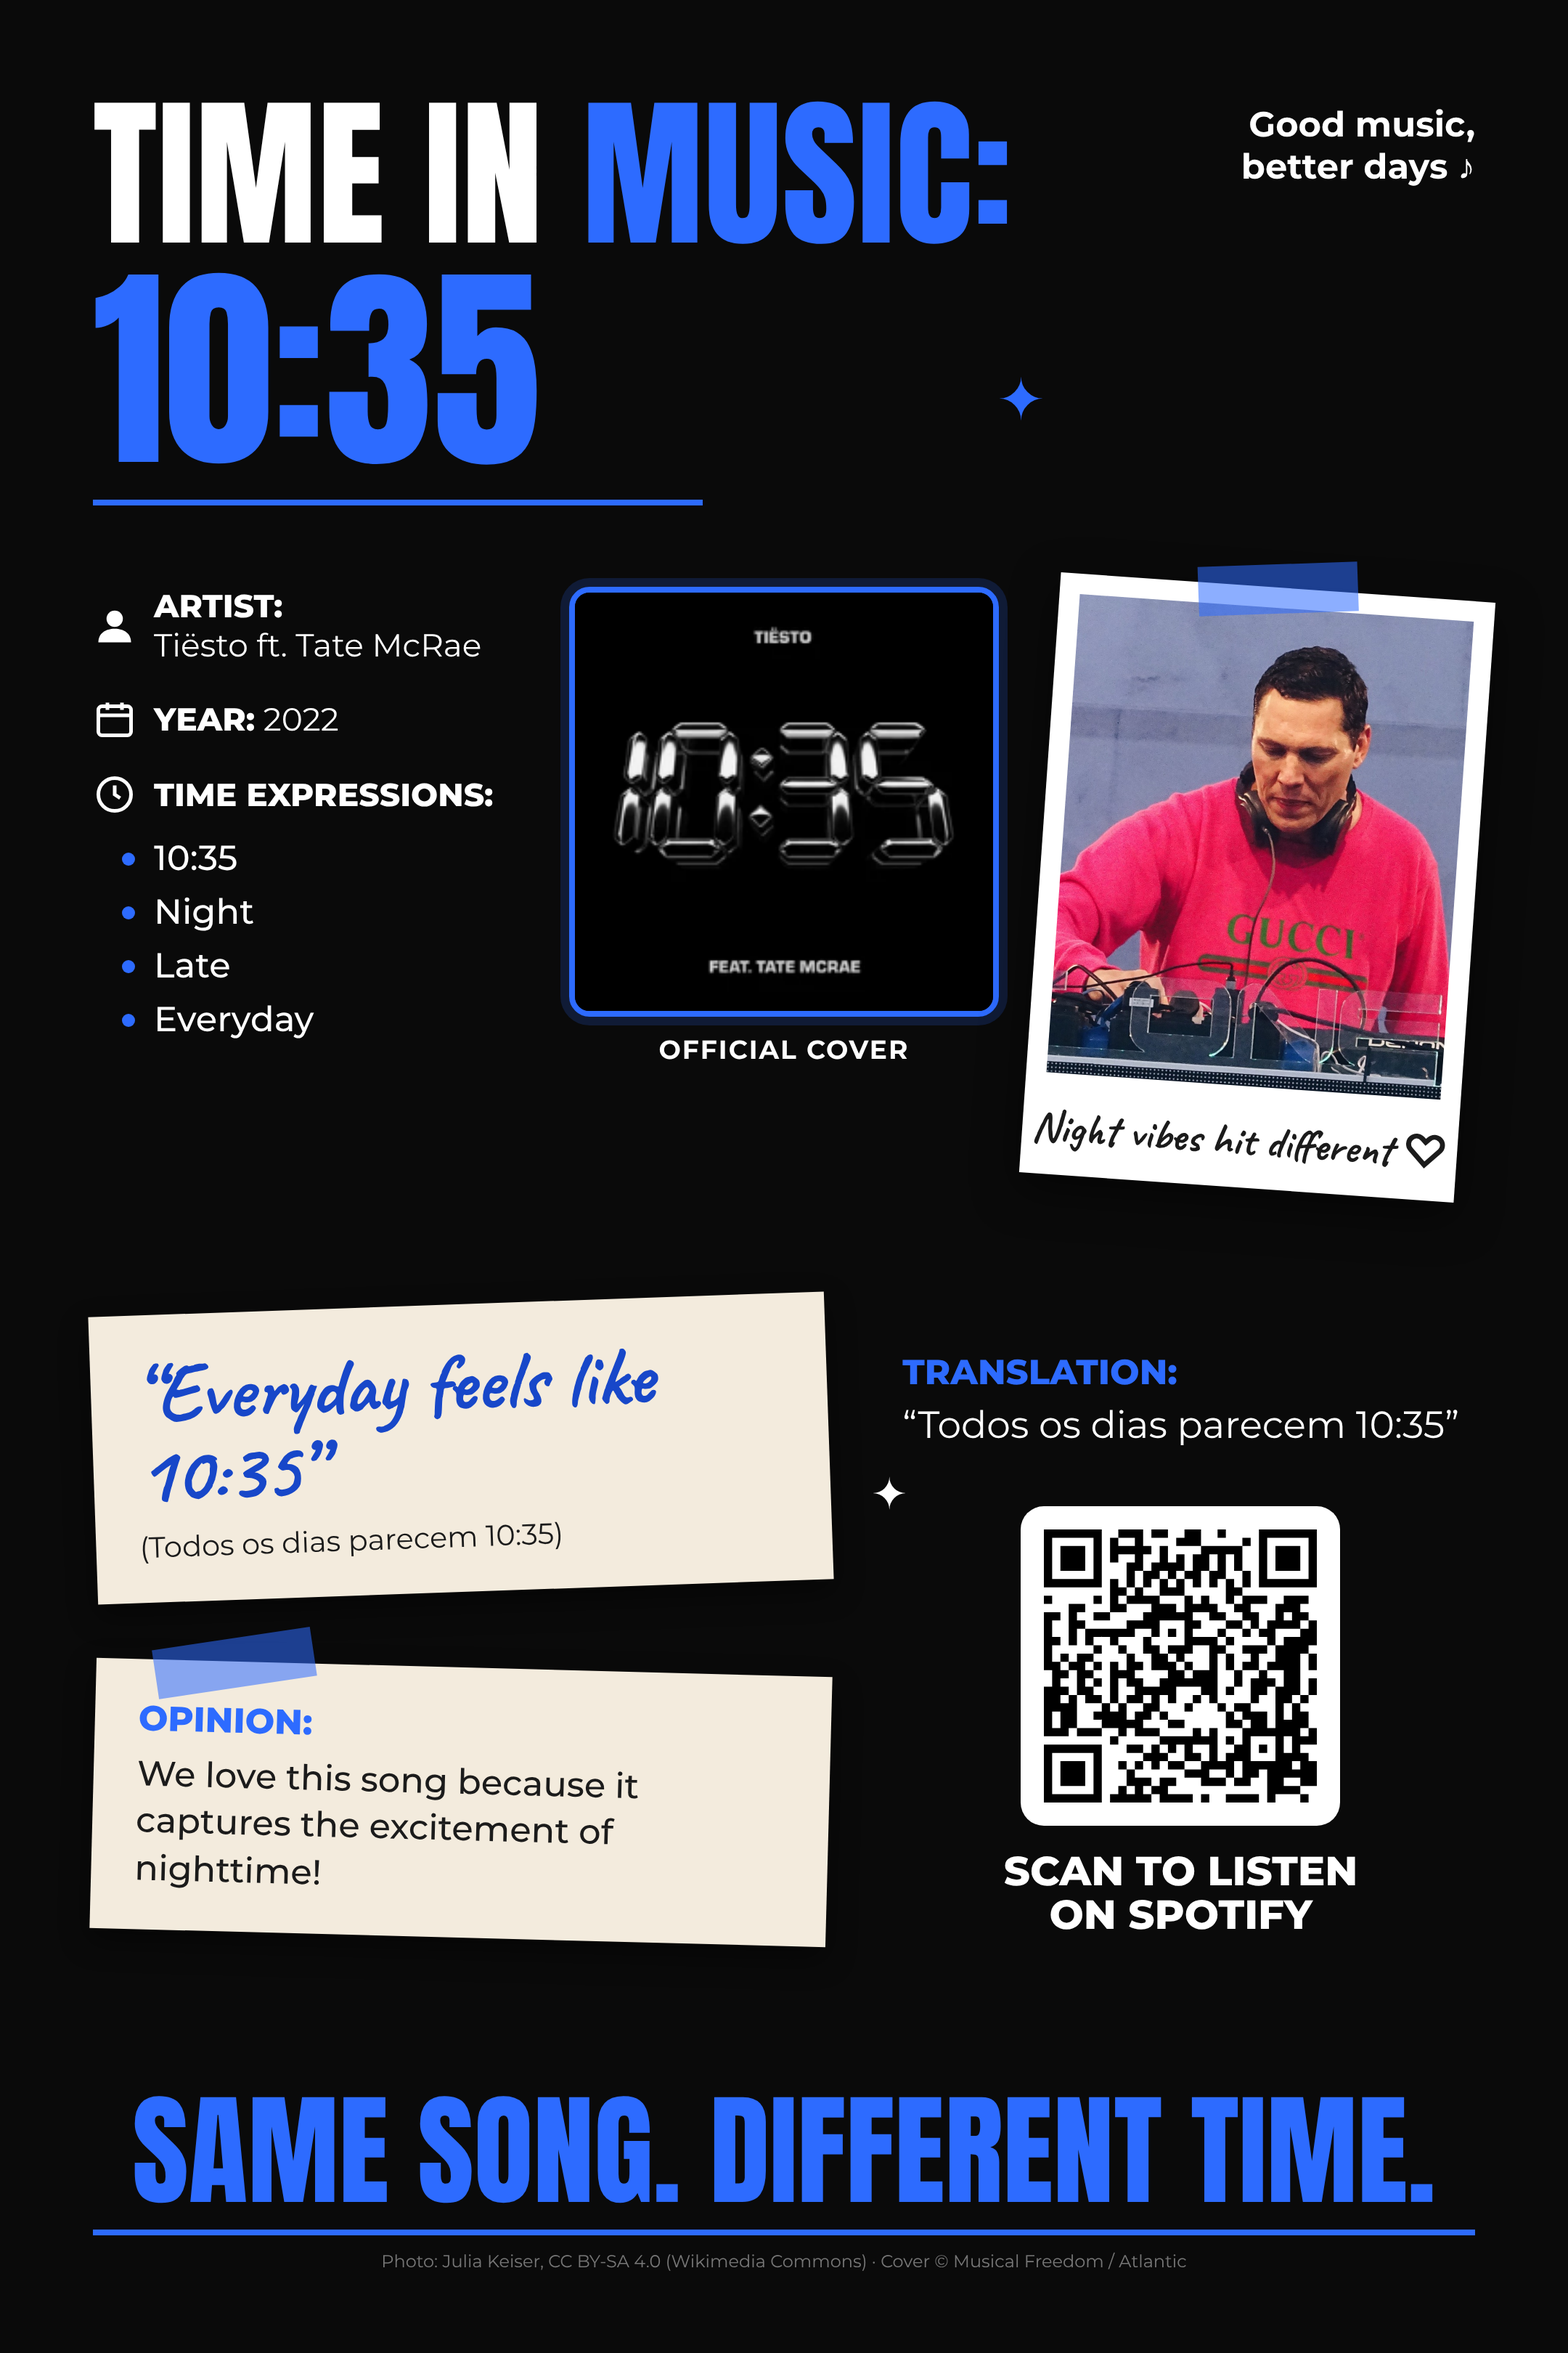
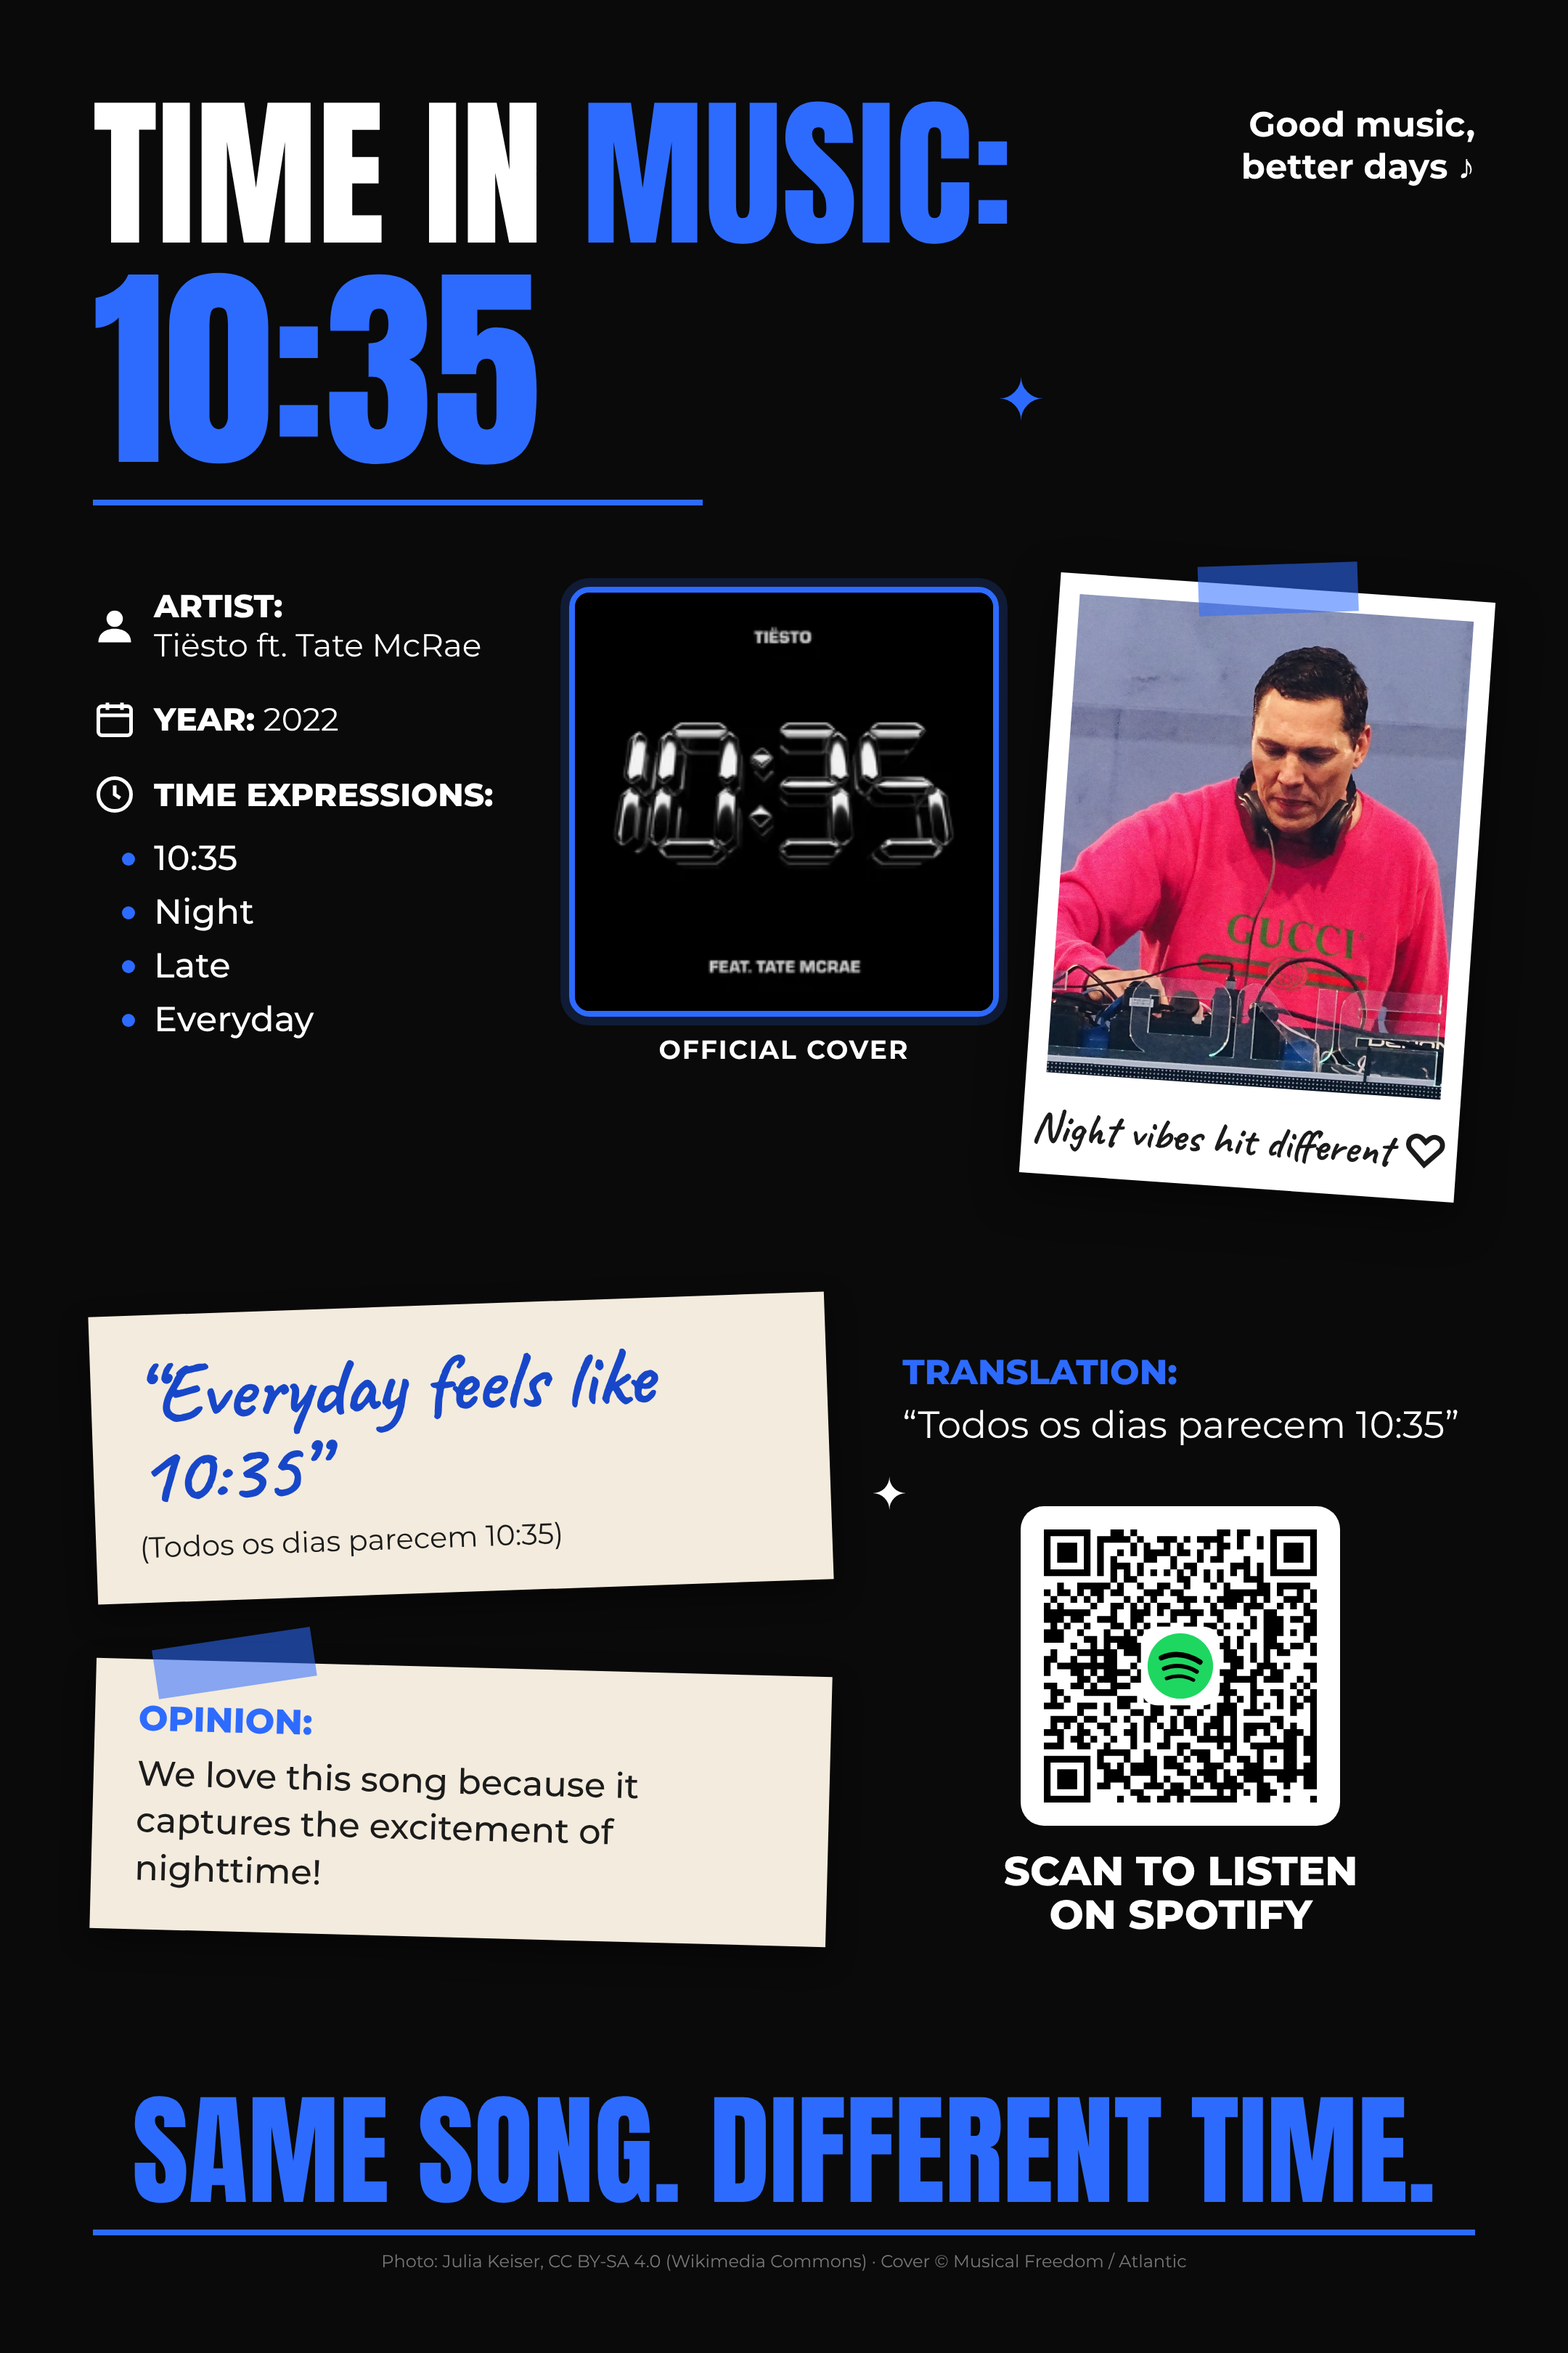
Spotify-branded QR code on Canva-style poster
Claude-Session: https://claude.ai/code/session_01N5V79tCM4EaiqWw1qUjwJE

Changed region(s): [[0.6514, 0.6546, 0.8375, 0.7793]]

diff --git a/poster-1035/canva.html b/poster-1035/canva.html
@@ -110,7 +110,7 @@
         <h3>Translation:</h3>
         <p>“Todos os dias parecem 10:35”</p>
       </div>
-      <div class="qr"><svg version="1.1" viewBox="0 0 33 33" xmlns="http://www.w3.org/2000/svg"><path fill="#000" d="M0,0H1V1H0zM1,0H2V1H1zM2,0H3V1H2zM3,0H4V1H3zM4,0H5V1H4zM5,0H6V1H5zM6,0H7V1H6zM9,0H10V1H9zM10,0H11V1H10zM11,0H12V1H11zM13,0H14V1H13zM14,0H15V1H14zM17,0H18V1H17zM18,0H19V1H18zM21,0H22V1H21zM26,0H27V1H26zM27,0H28V1H27zM28,0H29V1H28zM29,0H30V1H29zM30,0H31V1H30zM31,0H32V1H31zM32,0H33V1H32zM0,1H1V2H0zM6,1H7V2H6zM8,1H9V2H8zM11,1H12V2H11zM16,1H17V2H16zM17,1H18V2H17zM18,1H19V2H18zM24,1H25V2H24zM26,1H27V2H26zM32,1H33V2H32zM0,2H1V3H0zM2,2H3V3H2zM3,2H4V3H3zM4,2H5V3H4zM6,2H7V3H6zM8,2H9V3H8zM9,2H10V3H9zM10,2H11V3H10zM11,2H12V3H11zM12,2H13V3H12zM14,2H15V3H14zM19,2H20V3H19zM20,2H21V3H20zM21,2H22V3H21zM22,2H23V3H22zM23,2H24V3H23zM26,2H27V3H26zM28,2H29V3H28zM29,2H30V3H29zM30,2H31V3H30zM32,2H33V3H32zM0,3H1V4H0zM2,3H3V4H2zM3,3H4V4H3zM4,3H5V4H4zM6,3H7V4H6zM8,3H9V4H8zM11,3H12V4H11zM14,3H15V4H14zM16,3H17V4H16zM18,3H19V4H18zM19,3H20V4H19zM21,3H22V4H21zM23,3H24V4H23zM26,3H27V4H26zM28,3H29V4H28zM29,3H30V4H29zM30,3H31V4H30zM32,3H33V4H32zM0,4H1V5H0zM2,4H3V5H2zM3,4H4V5H3zM4,4H5V5H4zM6,4H7V5H6zM10,4H11V5H10zM11,4H12V5H11zM13,4H14V5H13zM14,4H15V5H14zM15,4H16V5H15zM16,4H17V5H16zM18,4H19V5H18zM19,4H20V5H19zM21,4H22V5H21zM23,4H24V5H23zM26,4H27V5H26zM28,4H29V5H28zM29,4H30V5H29zM30,4H31V5H30zM32,4H33V5H32zM0,5H1V6H0zM6,5H7V6H6zM10,5H11V6H10zM12,5H13V6H12zM13,5H14V6H13zM15,5H16V6H15zM17,5H18V6H17zM18,5H19V6H18zM20,5H21V6H20zM21,5H22V6H21zM24,5H25V6H24zM26,5H27V6H26zM32,5H33V6H32zM0,6H1V7H0zM1,6H2V7H1zM2,6H3V7H2zM3,6H4V7H3zM4,6H5V7H4zM5,6H6V7H5zM6,6H7V7H6zM8,6H9V7H8zM10,6H11V7H10zM12,6H13V7H12zM14,6H15V7H14zM16,6H17V7H16zM18,6H19V7H18zM20,6H21V7H20zM22,6H23V7H22zM24,6H25V7H24zM26,6H27V7H26zM27,6H28V7H27zM28,6H29V7H28zM29,6H30V7H29zM30,6H31V7H30zM31,6H32V7H31zM32,6H33V7H32zM8,7H9V8H8zM9,7H10V8H9zM11,7H12V8H11zM14,7H15V8H14zM15,7H16V8H15zM16,7H17V8H16zM22,7H23V8H22zM23,7H24V8H23zM0,8H1V9H0zM6,8H7V9H6zM8,8H9V9H8zM10,8H11V9H10zM11,8H12V9H11zM12,8H13V9H12zM13,8H14V9H13zM17,8H18V9H17zM19,8H20V9H19zM22,8H23V9H22zM24,8H25V9H24zM25,8H26V9H25zM26,8H27V9H26zM29,8H30V9H29zM30,8H31V9H30zM31,8H32V9H31zM3,9H4V10H3zM4,9H5V10H4zM8,9H9V10H8zM9,9H10V10H9zM13,9H14V10H13zM14,9H15V10H14zM15,9H16V10H15zM17,9H18V10H17zM18,9H19V10H18zM19,9H20V10H19zM20,9H21V10H20zM23,9H24V10H23zM24,9H25V10H24zM28,9H29V10H28zM29,9H30V10H29zM30,9H31V10H30zM0,10H1V11H0zM1,10H2V11H1zM3,10H4V11H3zM6,10H7V11H6zM7,10H8V11H7zM12,10H13V11H12zM13,10H14V11H13zM14,10H15V11H14zM15,10H16V11H15zM16,10H17V11H16zM17,10H18V11H17zM20,10H21V11H20zM21,10H22V11H21zM24,10H25V11H24zM25,10H26V11H25zM28,10H29V11H28zM30,10H31V11H30zM31,10H32V11H31zM0,11H1V12H0zM3,11H4V12H3zM4,11H5V12H4zM10,11H11V12H10zM11,11H12V12H11zM12,11H13V12H12zM13,11H14V12H13zM17,11H18V12H17zM18,11H19V12H18zM22,11H23V12H22zM23,11H24V12H23zM25,11H26V12H25zM27,11H28V12H27zM28,11H29V12H28zM29,11H30V12H29zM30,11H31V12H30zM32,11H33V12H32zM0,12H1V13H0zM3,12H4V13H3zM5,12H6V13H5zM6,12H7V13H6zM7,12H8V13H7zM8,12H9V13H8zM9,12H10V13H9zM10,12H11V13H10zM13,12H14V13H13zM15,12H16V13H15zM17,12H18V13H17zM21,12H22V13H21zM24,12H25V13H24zM26,12H27V13H26zM27,12H28V13H27zM31,12H32V13H31zM32,12H33V13H32zM0,13H1V14H0zM1,13H2V14H1zM3,13H4V14H3zM5,13H6V14H5zM8,13H9V14H8zM12,13H13V14H12zM17,13H18V14H17zM18,13H19V14H18zM19,13H20V14H19zM20,13H21V14H20zM22,13H23V14H22zM27,13H28V14H27zM29,13H30V14H29zM30,13H31V14H30zM31,13H32V14H31zM32,13H33V14H32zM0,14H1V15H0zM6,14H7V15H6zM9,14H10V15H9zM12,14H13V15H12zM13,14H14V15H13zM15,14H16V15H15zM16,14H17V15H16zM17,14H18V15H17zM20,14H21V15H20zM21,14H22V15H21zM24,14H25V15H24zM25,14H26V15H25zM26,14H27V15H26zM28,14H29V15H28zM29,14H30V15H29zM30,14H31V15H30zM31,14H32V15H31zM0,15H1V16H0zM2,15H3V16H2zM4,15H5V16H4zM5,15H6V16H5zM10,15H11V16H10zM13,15H14V16H13zM14,15H15V16H14zM16,15H17V16H16zM20,15H21V16H20zM22,15H23V16H22zM25,15H26V16H25zM28,15H29V16H28zM29,15H30V16H29zM30,15H31V16H30zM32,15H33V16H32zM0,16H1V17H0zM1,16H2V17H1zM3,16H4V17H3zM4,16H5V17H4zM6,16H7V17H6zM8,16H9V17H8zM10,16H11V17H10zM11,16H12V17H11zM13,16H14V17H13zM14,16H15V17H14zM15,16H16V17H15zM17,16H18V17H17zM20,16H21V17H20zM22,16H23V17H22zM24,16H25V17H24zM25,16H26V17H25zM27,16H28V17H27zM28,16H29V17H28zM29,16H30V17H29zM30,16H31V17H30zM32,16H33V17H32zM1,17H2V18H1zM2,17H3V18H2zM4,17H5V18H4zM5,17H6V18H5zM8,17H9V18H8zM9,17H10V18H9zM10,17H11V18H10zM15,17H16V18H15zM16,17H17V18H16zM18,17H19V18H18zM19,17H20V18H19zM20,17H21V18H20zM23,17H24V18H23zM26,17H27V18H26zM29,17H30V18H29zM30,17H31V18H30zM1,18H2V19H1zM4,18H5V19H4zM6,18H7V19H6zM8,18H9V19H8zM10,18H11V19H10zM11,18H12V19H11zM14,18H15V19H14zM15,18H16V19H15zM16,18H17V19H16zM17,18H18V19H17zM18,18H19V19H18zM19,18H20V19H19zM20,18H21V19H20zM23,18H24V19H23zM25,18H26V19H25zM26,18H27V19H26zM27,18H28V19H27zM29,18H30V19H29zM30,18H31V19H30zM32,18H33V19H32zM0,19H1V20H0zM1,19H2V20H1zM2,19H3V20H2zM4,19H5V20H4zM5,19H6V20H5zM8,19H9V20H8zM11,19H12V20H11zM12,19H13V20H12zM13,19H14V20H13zM14,19H15V20H14zM15,19H16V20H15zM19,19H20V20H19zM20,19H21V20H20zM22,19H23V20H22zM25,19H26V20H25zM26,19H27V20H26zM28,19H29V20H28zM29,19H30V20H29zM30,19H31V20H30zM32,19H33V20H32zM0,20H1V21H0zM1,20H2V21H1zM3,20H4V21H3zM5,20H6V21H5zM6,20H7V21H6zM8,20H9V21H8zM10,20H11V21H10zM11,20H12V21H11zM13,20H14V21H13zM15,20H16V21H15zM18,20H19V21H18zM20,20H21V21H20zM25,20H26V21H25zM28,20H29V21H28zM29,20H30V21H29zM31,20H32V21H31zM0,21H1V22H0zM1,21H2V22H1zM2,21H3V22H2zM3,21H4V22H3zM7,21H8V22H7zM9,21H10V22H9zM12,21H13V22H12zM13,21H14V22H13zM17,21H18V22H17zM21,21H22V22H21zM23,21H24V22H23zM24,21H25V22H24zM28,21H29V22H28zM30,21H31V22H30zM0,22H1V23H0zM2,22H3V23H2zM3,22H4V23H3zM6,22H7V23H6zM7,22H8V23H7zM8,22H9V23H8zM9,22H10V23H9zM11,22H12V23H11zM12,22H13V23H12zM14,22H15V23H14zM22,22H23V23H22zM24,22H25V23H24zM25,22H26V23H25zM26,22H27V23H26zM28,22H29V23H28zM30,22H31V23H30zM31,22H32V23H31zM0,23H1V24H0zM2,23H3V24H2zM3,23H4V24H3zM7,23H8V24H7zM8,23H9V24H8zM9,23H10V24H9zM10,23H11V24H10zM11,23H12V24H11zM15,23H16V24H15zM16,23H17V24H16zM22,23H23V24H22zM23,23H24V24H23zM25,23H26V24H25zM26,23H27V24H26zM28,23H29V24H28zM29,23H30V24H29zM30,23H31V24H30zM31,23H32V24H31zM0,24H1V25H0zM1,24H2V25H1zM2,24H3V25H2zM4,24H5V25H4zM5,24H6V25H5zM6,24H7V25H6zM9,24H10V25H9zM11,24H12V25H11zM12,24H13V25H12zM13,24H14V25H13zM18,24H19V25H18zM20,24H21V25H20zM24,24H25V25H24zM25,24H26V25H25zM26,24H27V25H26zM27,24H28V25H27zM28,24H29V25H28zM29,24H30V25H29zM30,24H31V25H30zM32,24H33V25H32zM8,25H9V26H8zM14,25H15V26H14zM15,25H16V26H15zM16,25H17V26H16zM17,25H18V26H17zM18,25H19V26H18zM19,25H20V26H19zM20,25H21V26H20zM22,25H23V26H22zM24,25H25V26H24zM28,25H29V26H28zM30,25H31V26H30zM31,25H32V26H31zM32,25H33V26H32zM0,26H1V27H0zM1,26H2V27H1zM2,26H3V27H2zM3,26H4V27H3zM4,26H5V27H4zM5,26H6V27H5zM6,26H7V27H6zM10,26H11V27H10zM11,26H12V27H11zM13,26H14V27H13zM15,26H16V27H15zM17,26H18V27H17zM20,26H21V27H20zM23,26H24V27H23zM24,26H25V27H24zM26,26H27V27H26zM28,26H29V27H28zM30,26H31V27H30zM0,27H1V28H0zM6,27H7V28H6zM12,27H13V28H12zM13,27H14V28H13zM14,27H15V28H14zM17,27H18V28H17zM18,27H19V28H18zM20,27H21V28H20zM22,27H23V28H22zM23,27H24V28H23zM24,27H25V28H24zM28,27H29V28H28zM29,27H30V28H29zM30,27H31V28H30zM31,27H32V28H31zM0,28H1V29H0zM2,28H3V29H2zM3,28H4V29H3zM4,28H5V29H4zM6,28H7V29H6zM9,28H10V29H9zM11,28H12V29H11zM13,28H14V29H13zM15,28H16V29H15zM16,28H17V29H16zM19,28H20V29H19zM20,28H21V29H20zM21,28H22V29H21zM22,28H23V29H22zM24,28H25V29H24zM25,28H26V29H25zM26,28H27V29H26zM27,28H28V29H27zM28,28H29V29H28zM29,28H30V29H29zM31,28H32V29H31zM32,28H33V29H32zM0,29H1V30H0zM2,29H3V30H2zM3,29H4V30H3zM4,29H5V30H4zM6,29H7V30H6zM10,29H11V30H10zM17,29H18V30H17zM18,29H19V30H18zM19,29H20V30H19zM22,29H23V30H22zM24,29H25V30H24zM25,29H26V30H25zM27,29H28V30H27zM28,29H29V30H28zM29,29H30V30H29zM30,29H31V30H30zM31,29H32V30H31zM32,29H33V30H32zM0,30H1V31H0zM2,30H3V31H2zM3,30H4V31H3zM4,30H5V31H4zM6,30H7V31H6zM10,30H11V31H10zM11,30H12V31H11zM12,30H13V31H12zM14,30H15V31H14zM15,30H16V31H15zM19,30H20V31H19zM20,30H21V31H20zM21,30H22V31H21zM23,30H24V31H23zM24,30H25V31H24zM27,30H28V31H27zM28,30H29V31H28zM31,30H32V31H31zM32,30H33V31H32zM0,31H1V32H0zM6,31H7V32H6zM9,31H10V32H9zM11,31H12V32H11zM13,31H14V32H13zM14,31H15V32H14zM27,31H28V32H27zM28,31H29V32H28zM29,31H30V32H29zM30,31H31V32H30zM0,32H1V33H0zM1,32H2V33H1zM2,32H3V33H2zM3,32H4V33H3zM4,32H5V33H4zM5,32H6V33H5zM6,32H7V33H6zM8,32H9V33H8zM9,32H10V33H9zM10,32H11V33H10zM11,32H12V33H11zM12,32H13V33H12zM14,32H15V33H14zM15,32H16V33H15zM16,32H17V33H16zM17,32H18V33H17zM19,32H20V33H19zM22,32H23V33H22zM23,32H24V33H23zM24,32H25V33H24zM25,32H26V33H25zM27,32H28V33H27zM31,32H32V33H31z" id="qr-path" fill="#000000" fill-opacity="1" fill-rule="nonzero" stroke="none"/></svg></div>
+      <div class="qr"><img src="img/qr-spotify.svg" alt="QR code Spotify — 10:35" style="width:100%;height:100%;display:block"></div>
       <p>Scan to listen<br>on Spotify</p>
     </div>
   </section>

diff --git a/poster-1035/canva.src.html b/poster-1035/canva.src.html
@@ -110,7 +110,7 @@
         <h3>Translation:</h3>
         <p>“Todos os dias parecem 10:35”</p>
       </div>
-      <div class="qr">{{QR}}</div>
+      <div class="qr"><img src="img/qr-spotify.svg" alt="QR code Spotify — 10:35" style="width:100%;height:100%;display:block"></div>
       <p>Scan to listen<br>on Spotify</p>
     </div>
   </section>

diff --git a/poster-1035/GUIA-CANVA.md b/poster-1035/GUIA-CANVA.md
@@ -32,7 +32,7 @@ Enviar (Uploads) os arquivos da pasta `img/`:
 - `tiesto-airbeat-one-2017.jpg`: dentro da moldura polaroid
 
 ## 6. QR code
-Aplicativos → **QR Code** → colar:
+Enviar `img/qr-spotify.svg` (já tem o logo do Spotify e abre a música). Ou, no Canva: Aplicativos → **QR Code** → colar:
 `https://open.spotify.com/track/6BePGk3eCan4FqaW2X8Qy3`
 
 ## 7. Créditos (rodapé, Montserrat 12, cinza)
